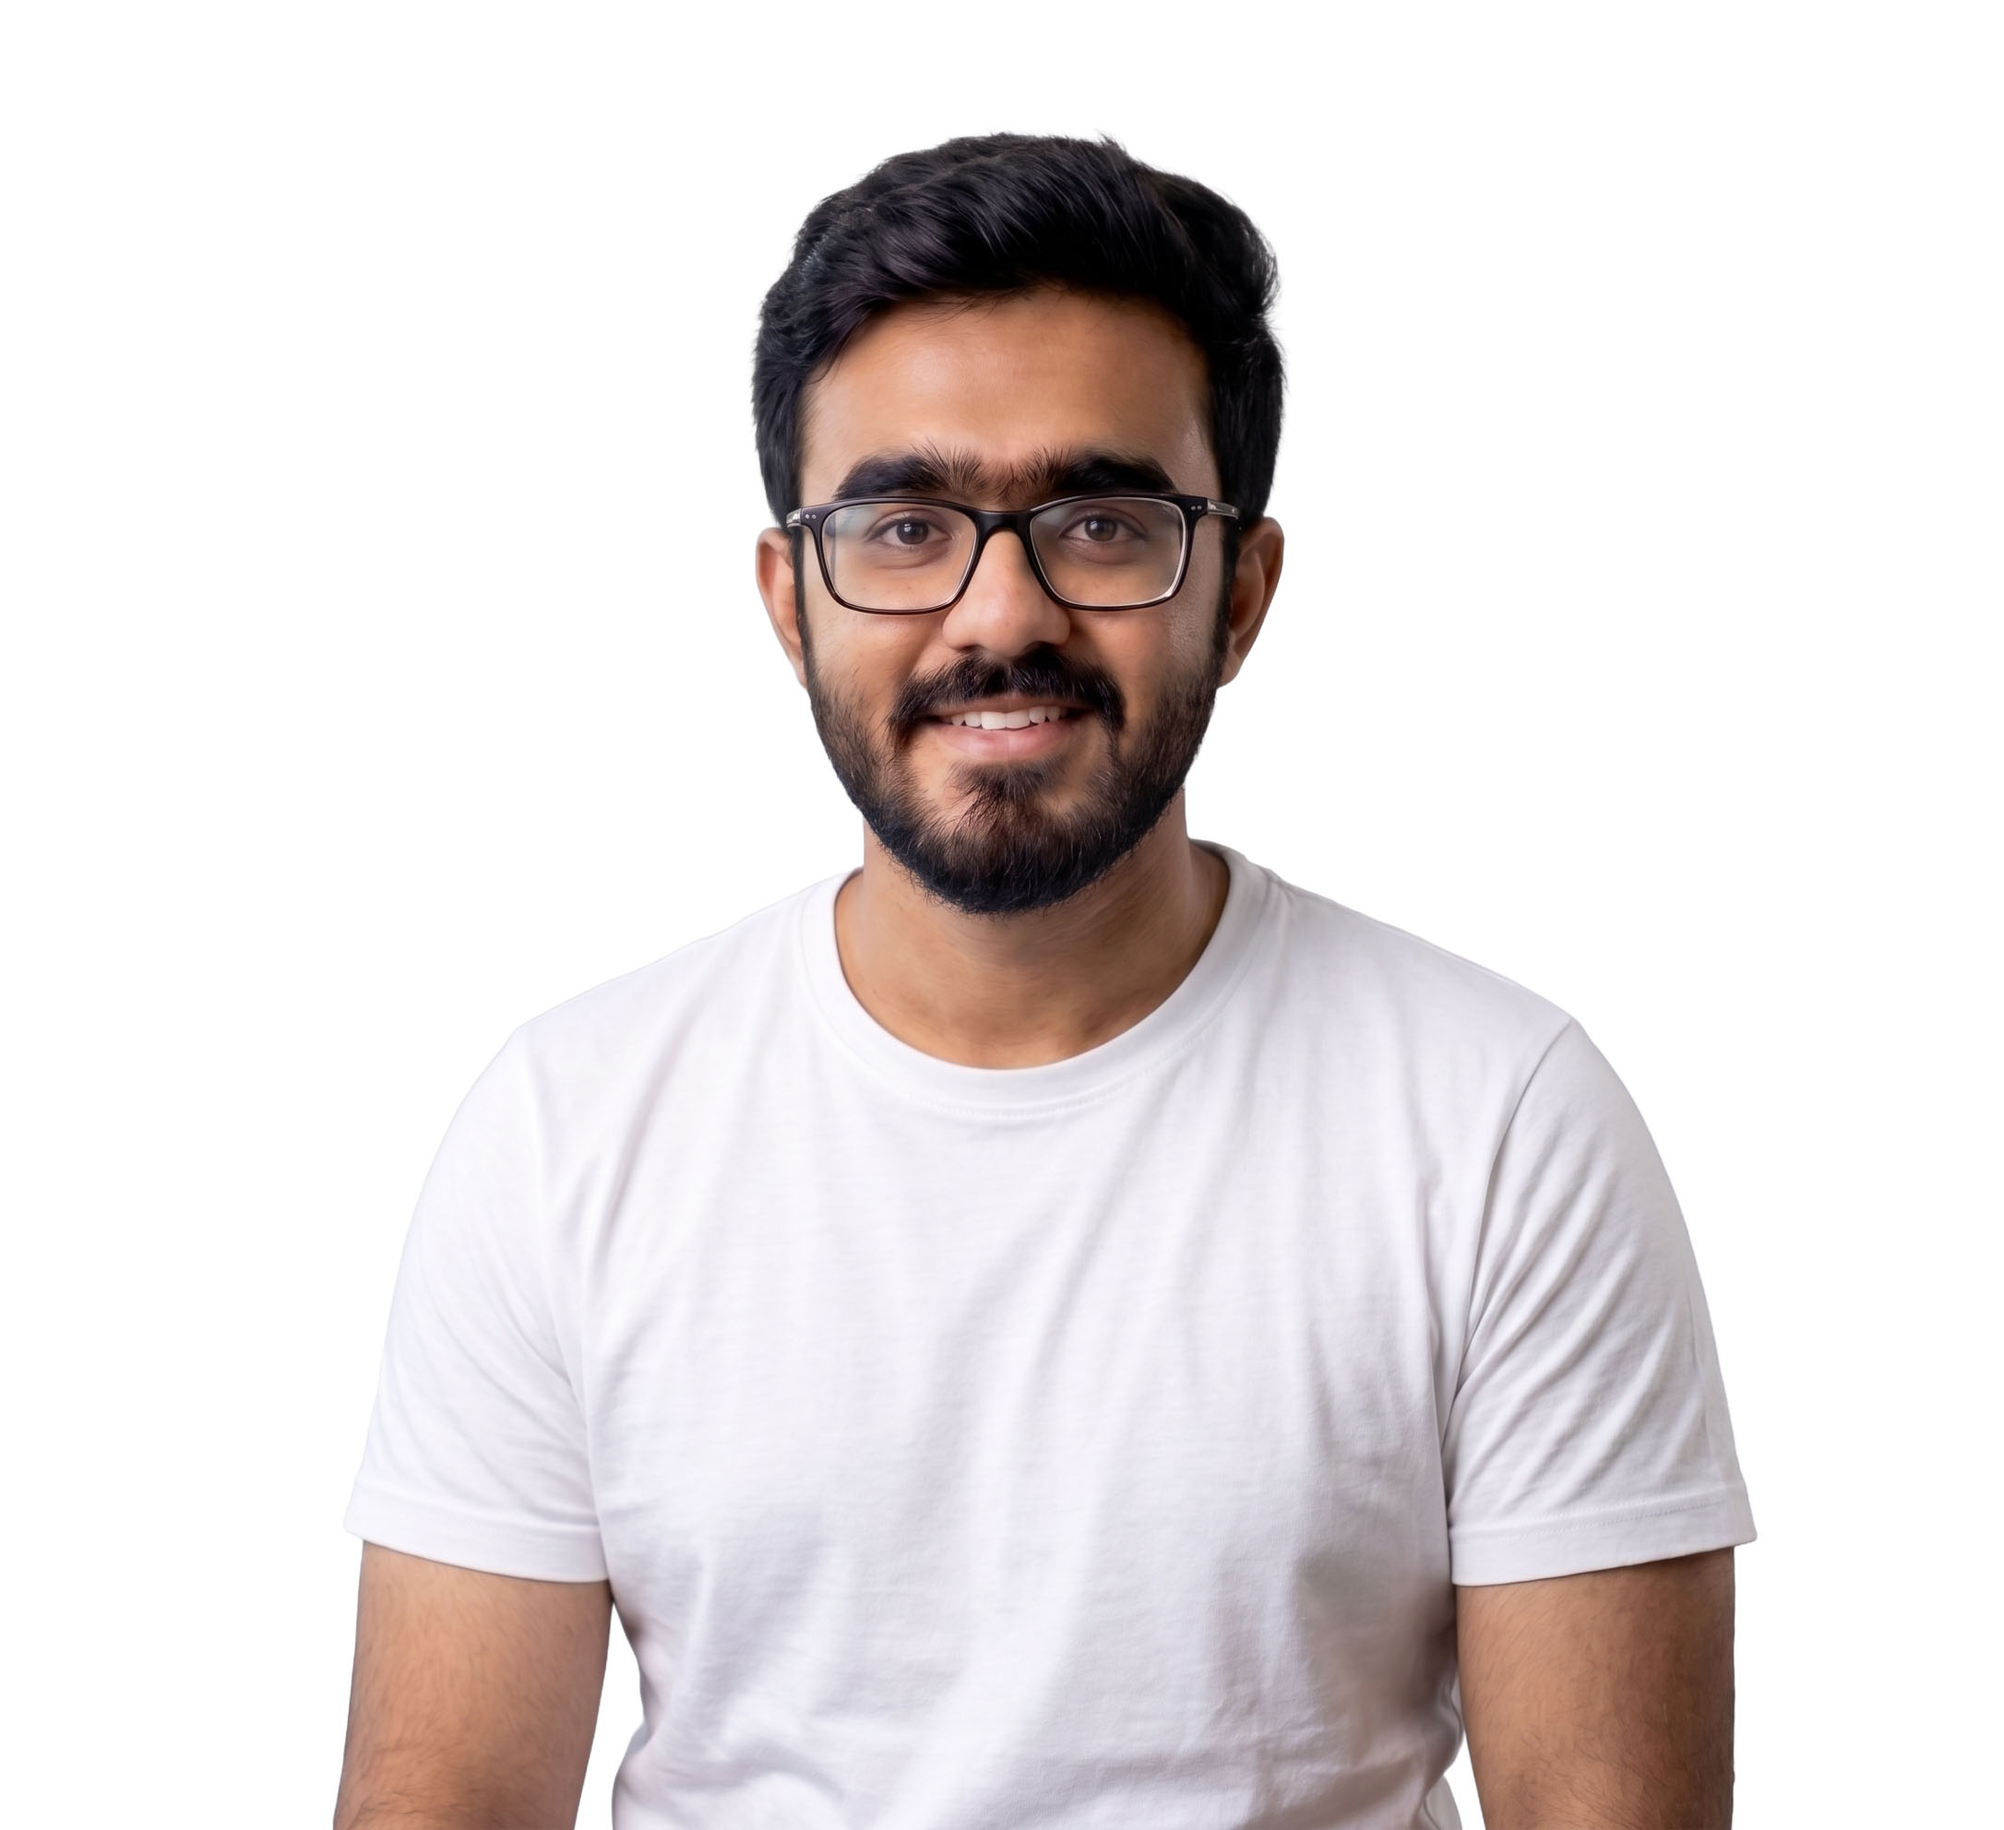
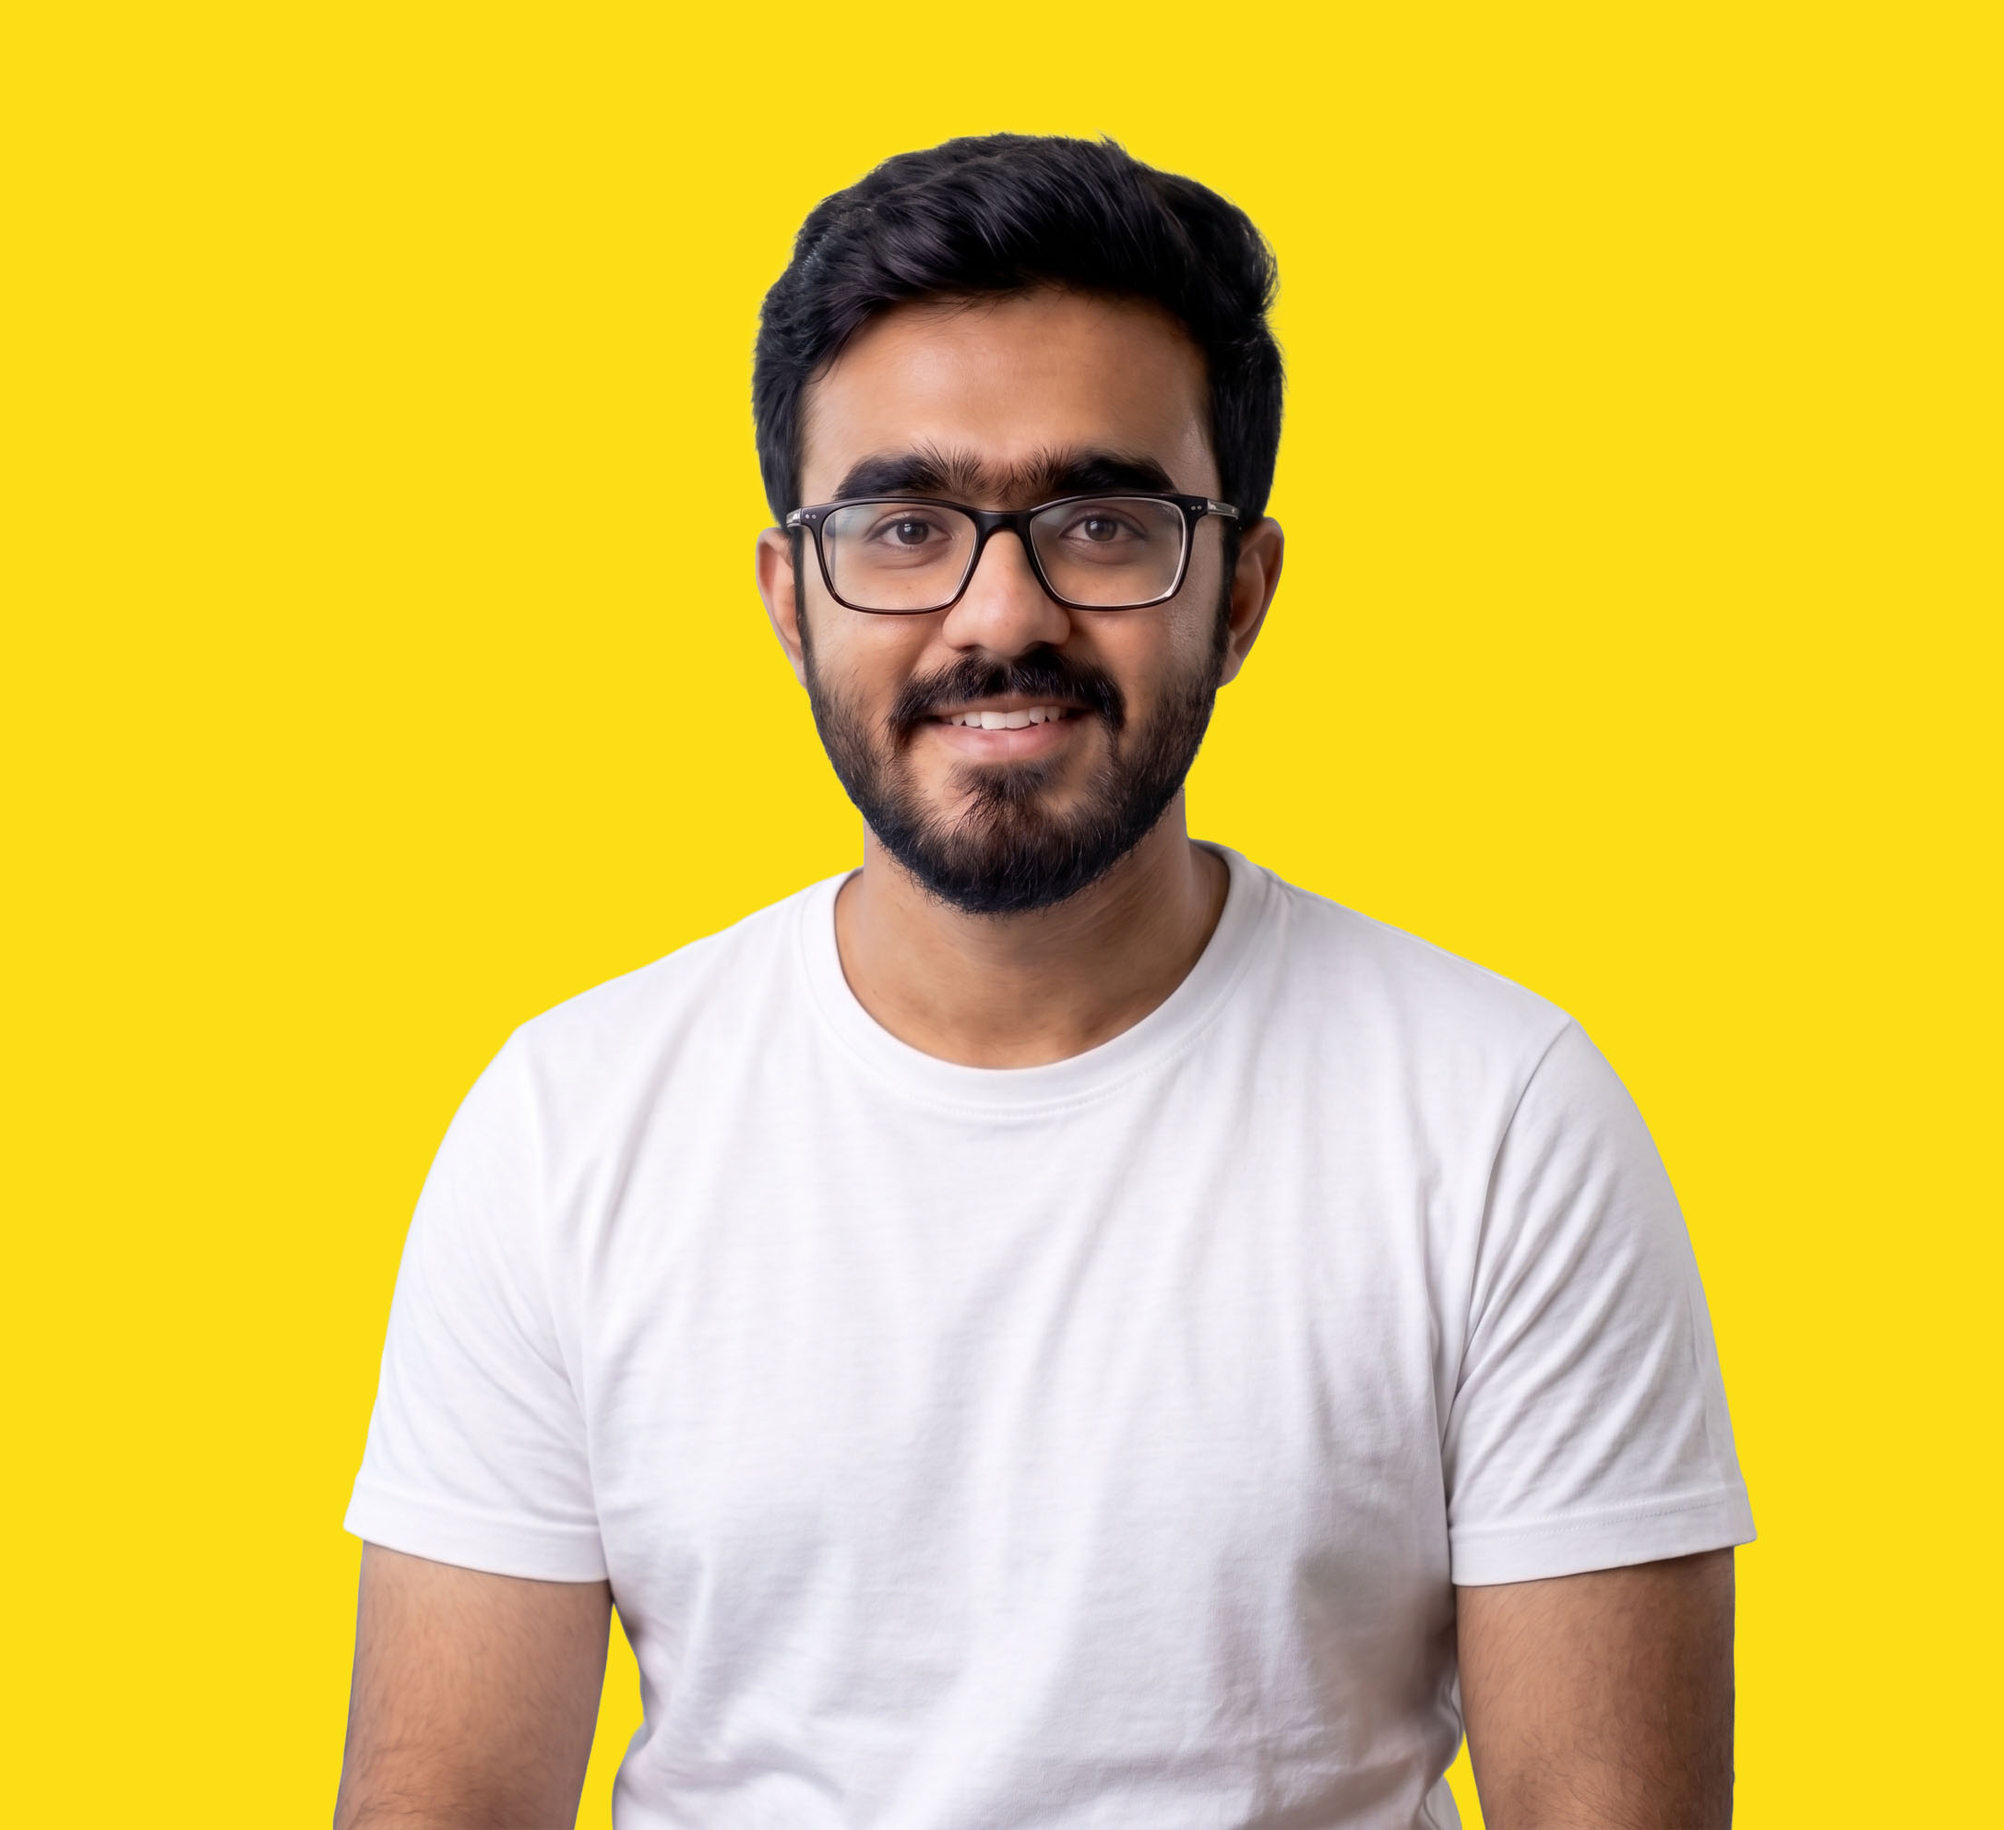
Version - 2

diff --git a/index.html b/index.html
@@ -54,41 +54,43 @@
   nav a:hover::after{transform:scaleX(1);}
   /* HERO */
   .hero{
-    min-height:100vh;display:flex;align-items:center;padding:90px 8% 40px;
+    min-height:100vh;display:flex;align-items:center;justify-content:center;padding:120px 8% 60px;position:relative;
   }
-  .hero-inner{display:flex;align-items:center;justify-content:space-between;gap:40px;width:100%;}
-  .hero-copy{flex:1 1 480px;max-width:560px;text-align:left;}
-  .hero-photo{flex:0 1 420px;position:relative;display:flex;justify-content:center;align-items:center;}
-  .hero-photo::before{
-    content:'';position:absolute;width:340px;height:340px;border-radius:50%;
-    background:radial-gradient(circle, rgba(124,255,178,0.28) 0%, rgba(124,255,178,0) 70%);
-    filter:blur(4px);z-index:0;
-  }
-  .hero-photo img{position:relative;z-index:1;width:100%;max-width:380px;height:auto;max-height:70vh;object-fit:contain;display:block;filter:drop-shadow(0 30px 50px rgba(0,0,0,0.5));}
-  .hero h1{font-size:clamp(40px,6.5vw,88px);font-weight:600;letter-spacing:-0.03em;}
+  .hero-inner{display:flex;flex-direction:column;align-items:center;text-align:center;gap:32px;width:100%;max-width:760px;margin:0 auto;}
+  .hero-badge{display:inline-flex;align-items:center;gap:8px;padding:8px 18px;border-radius:999px;border:1px solid rgba(255,255,255,0.15);background:rgba(255,255,255,0.04);font-size:13px;color:var(--fg);}
+  .hero-badge::before{content:'';width:6px;height:6px;border-radius:50%;background:var(--accent);flex:none;}
+  .hero h1{font-size:clamp(32px,5vw,60px);font-weight:600;letter-spacing:-0.03em;line-height:1.2;}
+  .hero h1 .accent{color:var(--accent);}
+  .hero h1 .role-line{display:block;margin-top:6px;}
   .cursor{display:inline-block;width:4px;background:var(--fg);margin-left:6px;animation:blink 0.9s step-end infinite;}
   @keyframes blink{50%{opacity:0;}}
-  .hero p{max-width:600px;margin-top:20px;color:var(--muted);font-size:16px;line-height:1.7;}
+  .hero-photo-wrap{position:relative;width:320px;height:320px;margin:0 auto;}
+  .hero-circle{
+    position:absolute;inset:0;border-radius:50%;z-index:0;
+    background:radial-gradient(circle at 32% 28%, #baffdb 0%, var(--accent) 55%, #33c67b 100%);
+  }
+  .hero-cutout{position:absolute;left:50%;bottom:-14px;transform:translateX(-50%);z-index:1;width:250px;max-width:66vw;height:auto;display:block;filter:drop-shadow(0 24px 40px rgba(0,0,0,0.45));}
+  .hero-cta{position:relative;z-index:2;display:flex;gap:4px;margin-top:-18px;background:rgba(10,10,10,0.92);border:1px solid rgba(255,255,255,0.12);border-radius:999px;padding:6px;backdrop-filter:blur(8px);}
+  .hero-cta a{padding:12px 22px;border-radius:999px;font-size:14px;font-weight:600;text-decoration:none;white-space:nowrap;color:var(--fg);}
+  .hero-cta a.primary{background:var(--accent);color:#06210f;}
+  .hero-cta a.secondary:hover{background:rgba(255,255,255,0.08);}
+  .hero-side{position:absolute;top:56%;transform:translateY(-50%);max-width:190px;font-size:13px;color:var(--muted);line-height:1.7;text-align:left;}
+  .hero-side-left{left:6%;}
   .scroll-indicator{
-    display:flex;flex-direction:column;align-items:flex-start;gap:10px;
-    margin-top:60px;color:rgba(255,255,255,0.7);font-size:12px;letter-spacing:2px;
+    display:flex;flex-direction:column;align-items:center;gap:10px;
+    color:rgba(255,255,255,0.7);font-size:12px;letter-spacing:2px;
   }
   .scroll-line{position:relative;width:1px;height:60px;background:rgba(255,255,255,0.15);overflow:hidden;}
   .scroll-line::after{content:"";position:absolute;top:-100%;left:0;width:100%;height:100%;background:#ffffff;animation:dropDown 2s ease-in-out infinite;}
   @keyframes dropDown{0%{top:-100%;}100%{top:100%;}}
-  .spotlight-wrap{position:relative;font-size:1.8rem;line-height:1.5;cursor:none;max-width:760px;margin-top:20px;}
+  @media (max-width:1100px){
+    .hero-side{display:none;}
+  }
   @media (max-width:900px){
     .hero{padding-top:130px;}
-    .hero-inner{flex-direction:column;}
-    .hero-copy{padding-left:0;text-align:center;max-width:100%;}
-    .scroll-indicator{align-items:center;margin-left:auto;margin-right:auto;}
-    .spotlight-wrap{margin-left:auto;margin-right:auto;}
-    .hero-photo{order:-1;margin-bottom:10px;}
-    .hero-photo::before{width:220px;height:220px;}
-    .hero-photo img{max-width:230px;}
+    .hero-photo-wrap{width:220px;height:220px;}
+    .hero-cutout{width:190px;}
   }
-  .text-dim{margin:0;color:rgba(255,255,255,0.25);}
-  .text-bright{position:absolute;top:0;left:0;margin:0;color:#ffffff;pointer-events:none;-webkit-mask-image:radial-gradient(circle 120px at var(--x, 50%) var(--y, 50%), black 0%, transparent 100%);mask-image:radial-gradient(circle 120px at var(--x, 50%) var(--y, 50%), black 0%, transparent 100%);}
   .cursor-dot{
     position:fixed;top:0;left:0;width:16px;height:16px;border-radius:9999px;
     background:rgba(255,255,255,0.98);border:1px solid rgba(255,255,255,0.7);
@@ -191,20 +193,23 @@
 
 <section class="hero">
   <div class="hero-inner">
-    <div class="hero-copy">
-      <h1 id="typewriter">&nbsp;<span class="cursor"></span></h1>
-      <div class="spotlight-wrap" id="spotlight">
-        <p class="text-dim">I live in the messy middle — turning ambiguity into momentum, aligning teams, and building a path from idea to delivery.</p>
-        <p class="text-bright" aria-hidden="true">I live in the messy middle — turning ambiguity into momentum, aligning teams, and building a path from idea to delivery.</p>
-      </div>
-      <div class="scroll-indicator">
-        <span>SCROLL</span>
-        <div class="scroll-line"></div>
-      </div>
+    <span class="hero-badge">Available for Work</span>
+    <h1>I'm <span class="accent">Rashmith</span>,<span class="role-line" id="typewriter">&nbsp;<span class="cursor"></span></span></h1>
+    <div class="hero-photo-wrap">
+      <div class="hero-circle"></div>
+      <img class="hero-cutout" src="assets/hero-cutout.webp" alt="Rashmith Reddy Podduturi">
     </div>
-    <div class="hero-photo">
-      <img src="assets/hero-photo.webp" alt="Rashmith Reddy Podduturi">
+    <div class="hero-cta">
+      <a class="primary" href="#case-study">View Work</a>
+      <a class="secondary" href="mailto:podduturirashmith@gmail.com?subject=Hello%20Rashmith&body=Hi%20Rashmith,%0A%0A">Contact Me</a>
     </div>
+    <div class="scroll-indicator">
+      <span>SCROLL</span>
+      <div class="scroll-line"></div>
+    </div>
+  </div>
+  <div class="hero-side hero-side-left">
+    <p>I live in the messy middle — turning ambiguity into momentum, aligning teams, and building a path from idea to delivery.</p>
   </div>
 </section>
 
